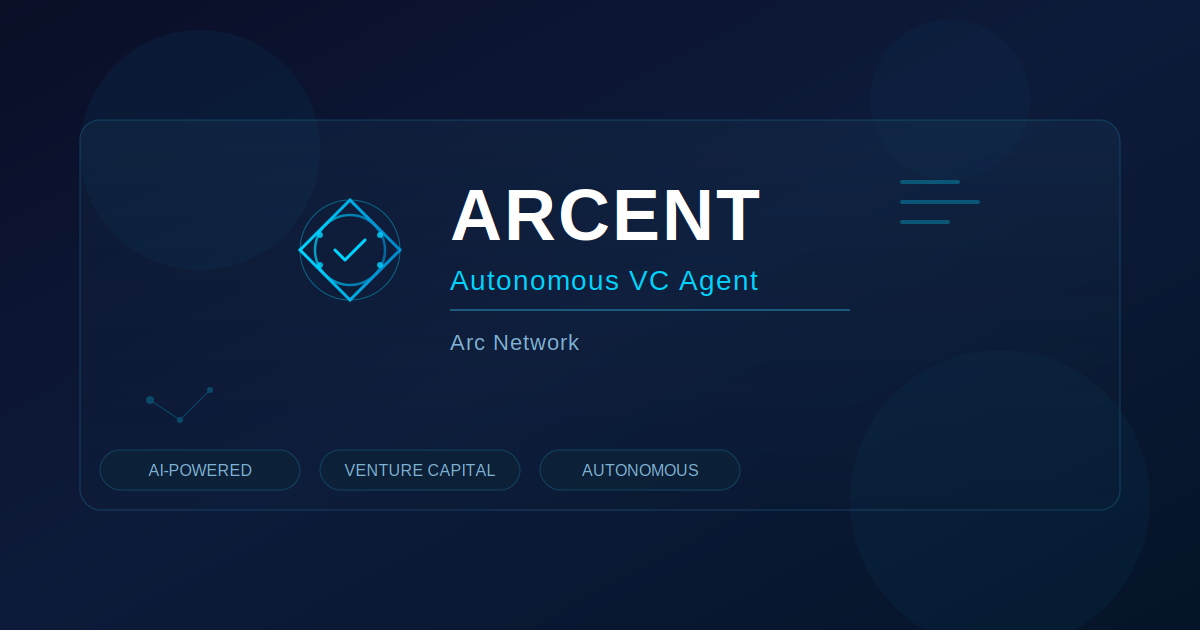
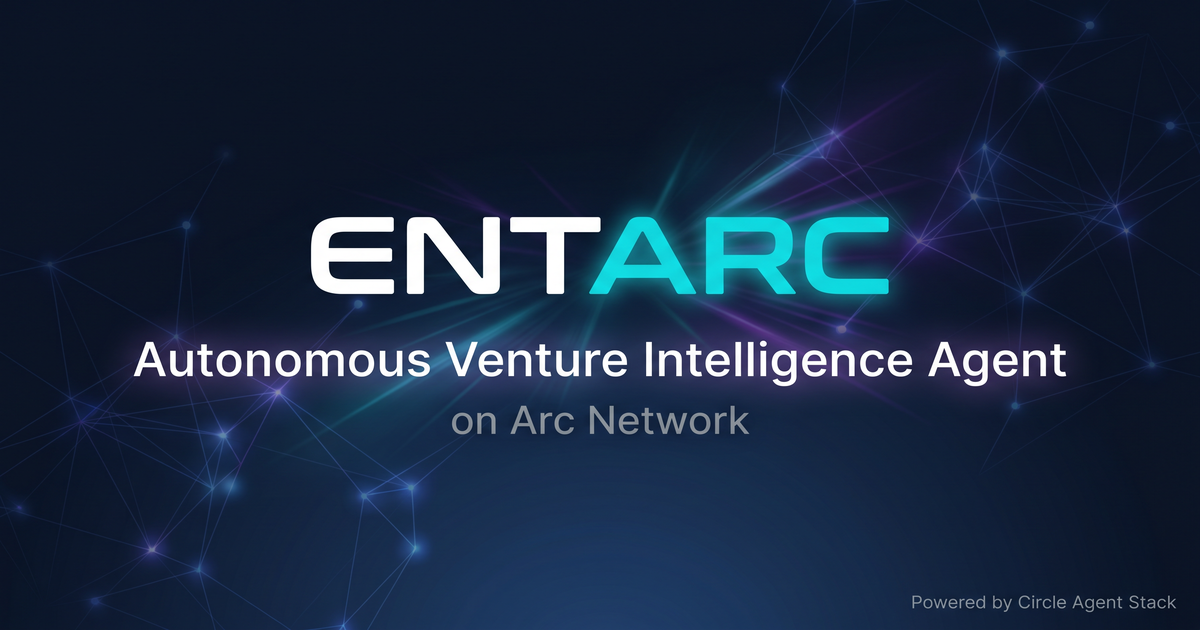
Update OG image and meta tags

diff --git a/nextjs_space/app/layout.tsx b/nextjs_space/app/layout.tsx
@@ -23,16 +23,29 @@ export const metadata: Metadata = {
   openGraph: {
     type: 'website',
     locale: 'en_US',
+    url: 'https://entarc.xyz',
     title: 'ENTARC — Autonomous Venture Intelligence Agent on Arc',
-    description: 'AI-driven autonomous venture intelligence agent with adaptive portfolio management and social signal intelligence on Arc Network',
+    description: 'First autonomous AI agent on Arc Network. Discovers pre-TGE projects, analyzes 5 signal sources, manages USDC investments via milestone-based escrow. Powered by Circle Agent Stack.',
     siteName: 'ENTARC',
-    images: ['/og-image.png'],
+    images: [{
+      url: '/og-image.png',
+      width: 1200,
+      height: 630,
+      alt: 'ENTARC — Autonomous Venture Intelligence Agent on Arc Network',
+      type: 'image/png',
+    }],
   },
   twitter: {
     card: 'summary_large_image',
     title: 'ENTARC — Autonomous Venture Intelligence Agent on Arc',
-    description: 'AI-driven autonomous venture intelligence agent on Arc Network',
-    images: ['/og-image.png'],
+    description: 'First autonomous AI agent on Arc Network. Discovers pre-TGE projects, analyzes signals, manages USDC via milestone-based escrow.',
+    images: [{
+      url: '/og-image.png',
+      width: 1200,
+      height: 630,
+      alt: 'ENTARC — Autonomous Venture Intelligence Agent on Arc Network',
+    }],
+    creator: '@izzetcakmak',
   },
   icons: {
     icon: '/favicon.svg',